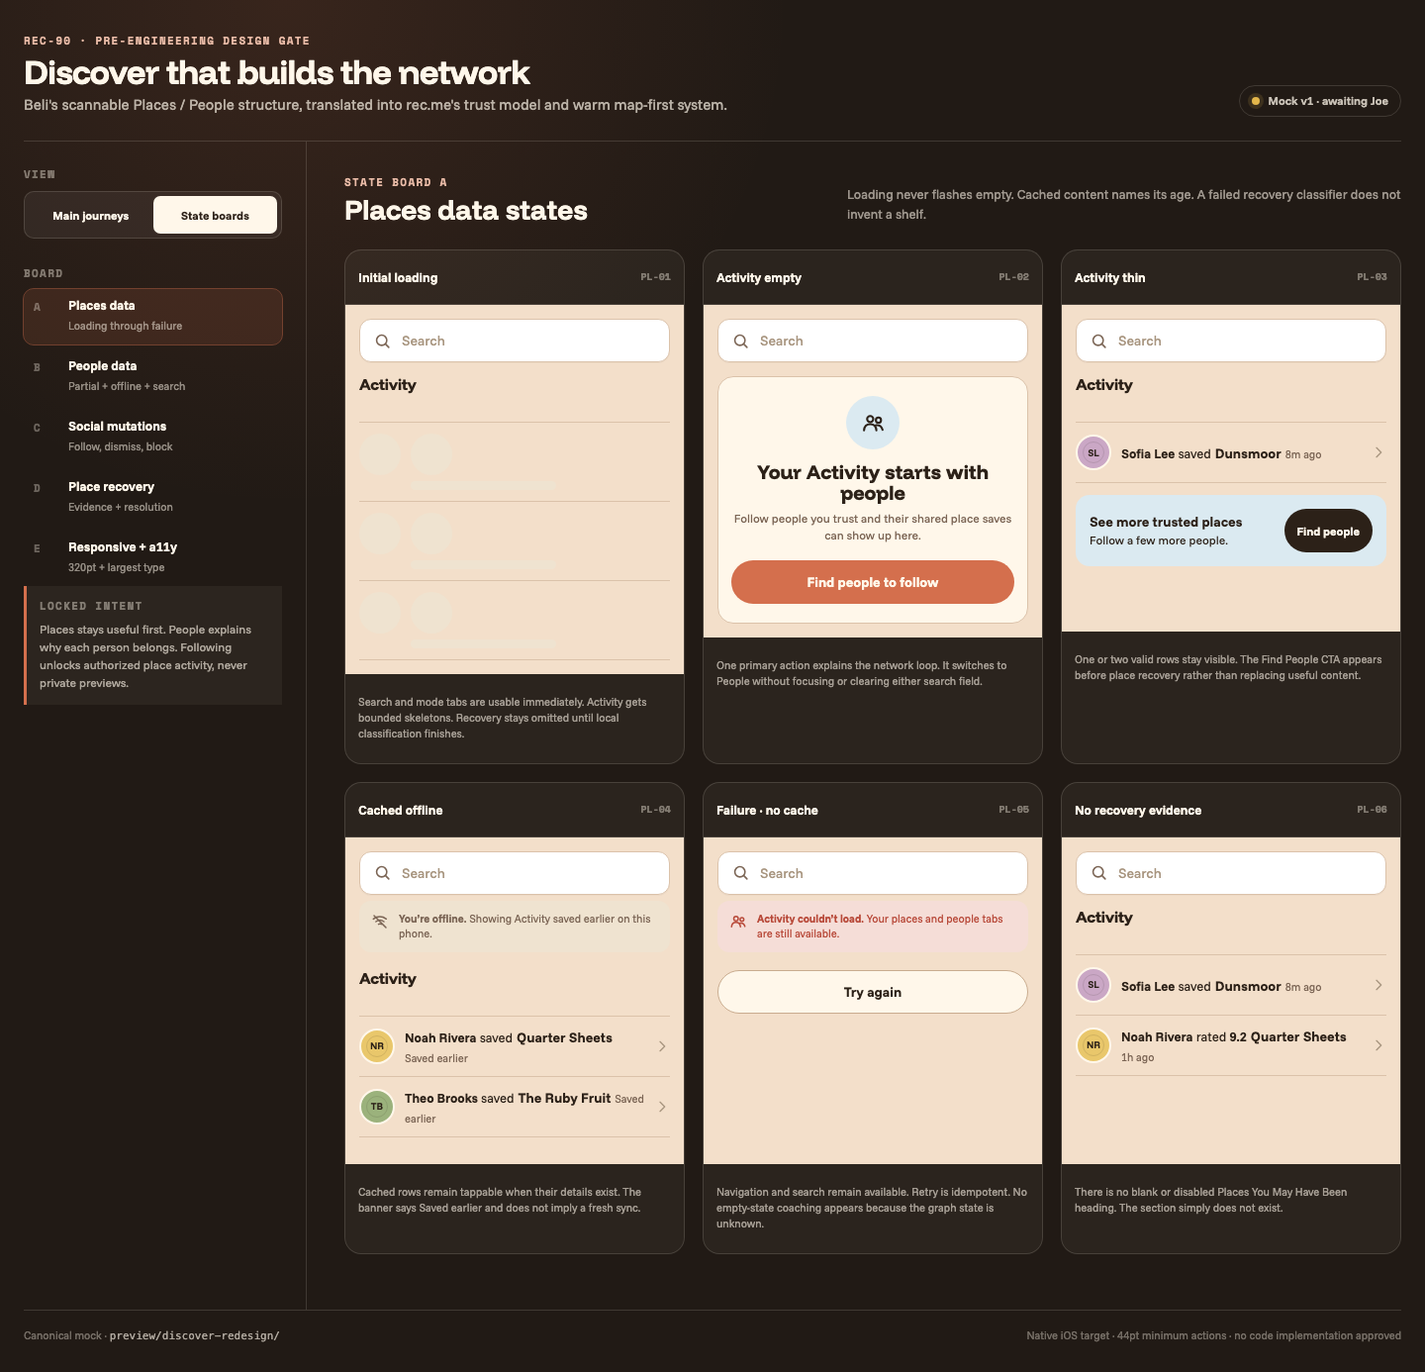
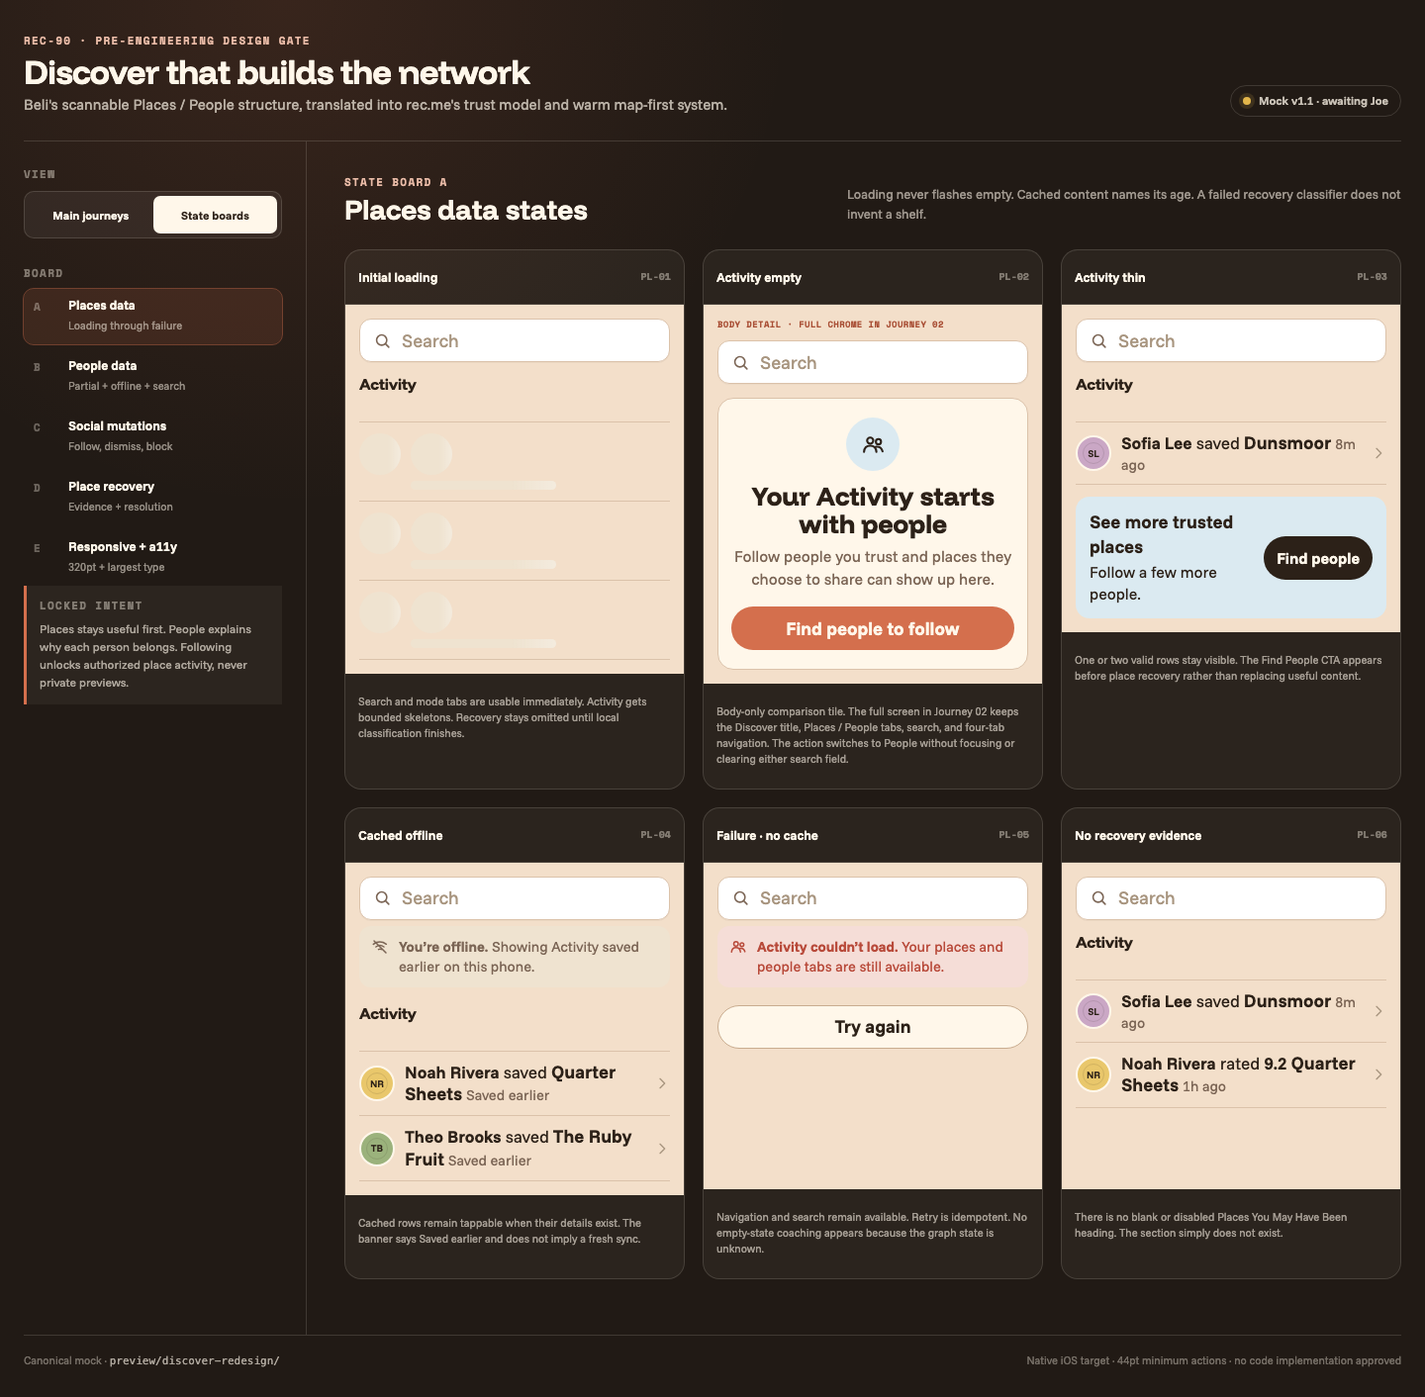
docs: clarify REC-90 empty activity mock

diff --git a/preview/discover-redesign/app.js b/preview/discover-redesign/app.js
@@ -40,7 +40,7 @@ const profiles = {
 
 const screenMetadata = {
   'places-populated': {
-    kicker: 'Journey 01 of 09', title: 'Places home',
+    kicker: 'Journey 01 of 10', title: 'Places home',
     note: 'Default landing: newest-first Activity, then only the recovery shelf the evidence supports.',
     proofs: [
       'Search is available before any feed content loads.',
@@ -48,8 +48,17 @@ const screenMetadata = {
       'Strong foreground evidence earns “may have been” language and direct Been / Wanna Go actions.'
     ]
   },
+  'activity-empty': {
+    kicker: 'Journey 02 of 10', title: 'Activity empty',
+    note: 'Empty Activity is a content state, not a different Discover shell. Places / People, search, and the four-tab navigation all stay visible.',
+    proofs: [
+      'Places remains selected while People stays one tap away.',
+      'Search remains available even when the social Activity result is empty.',
+      'Find people to follow switches to People without auto-focusing or clearing either mode’s search field.'
+    ]
+  },
   'people-populated': {
-    kicker: 'Journey 02 of 09', title: 'People suggestions',
+    kicker: 'Journey 03 of 10', title: 'People suggestions',
     note: 'A proactive people surface that feels useful, not like a popularity leaderboard.',
     proofs: [
       'Every card names one understandable reason.',
@@ -58,7 +67,7 @@ const screenMetadata = {
     ]
   },
   'people-search': {
-    kicker: 'Journey 03 of 09', title: 'People search',
+    kicker: 'Journey 04 of 10', title: 'People search',
     note: 'An active query replaces proactive shelves. Dismissed suggestions may still appear here.',
     proofs: [
       'Search result hierarchy favors identity over recommendation metadata.',
@@ -67,7 +76,7 @@ const screenMetadata = {
     ]
   },
   'follow-success': {
-    kicker: 'Journey 04 of 09', title: 'Follow success',
+    kicker: 'Journey 05 of 10', title: 'Follow success',
     note: 'The card stays in place as Following for this appearance so the action has an obvious result.',
     proofs: [
       'Exactly one mutation can be sent while the control is in flight.',
@@ -76,7 +85,7 @@ const screenMetadata = {
     ]
   },
   'activity-unlocked': {
-    kicker: 'Journey 05 of 09', title: 'Activity unlocked',
+    kicker: 'Journey 06 of 10', title: 'Activity unlocked',
     note: 'Following must produce visible product value. Maya’s latest shared save now leads Activity.',
     proofs: [
       'The new authorized event is first because Activity remains newest-first.',
@@ -85,7 +94,7 @@ const screenMetadata = {
     ]
   },
   'strong-recovery': {
-    kicker: 'Journey 06 of 09', title: 'Strong place recovery',
+    kicker: 'Journey 07 of 10', title: 'Strong place recovery',
     note: 'A foreground “I’m here” draft supports a may-have-been prompt, but the user still decides.',
     proofs: [
       'The provenance says what rec.me remembered without implying background tracking.',
@@ -94,7 +103,7 @@ const screenMetadata = {
     ]
   },
   'weak-recovery': {
-    kicker: 'Journey 07 of 09', title: 'Weak place recovery',
+    kicker: 'Journey 08 of 10', title: 'Weak place recovery',
     note: 'A search/detail open is not presence evidence. The interface says “pick up,” never “you were here.”',
     proofs: [
       'The weak shelf title makes no visit claim.',
@@ -103,7 +112,7 @@ const screenMetadata = {
     ]
   },
   'profile-open': {
-    kicker: 'Journey 08 of 09', title: 'Public profile preview',
+    kicker: 'Journey 09 of 10', title: 'Public profile preview',
     note: 'The existing profile opens with enough public context to decide, but no protected place preview.',
     proofs: [
       'Name, handle, city, bio, and reason are public-shell fields.',
@@ -112,7 +121,7 @@ const screenMetadata = {
     ]
   },
   'signed-out': {
-    kicker: 'Journey 09 of 09', title: 'Signed-out gate',
+    kicker: 'Journey 10 of 10', title: 'Signed-out gate',
     note: 'Anonymous users do not receive member search, personalized shelves, or graph reasons.',
     proofs: [
       'The disabled search shape communicates where the capability will live.',
@@ -285,6 +294,23 @@ function placesHome({ unlocked = false } = {}) {
   });
 }
 
+function activityEmpty() {
+  return screenFrame({
+    mode: 'places',
+    content: `
+      ${searchField({ placeholder: 'Search places, vibes, or people' })}
+      <section class="section-block">
+        ${sectionHeader('Activity')}
+        ${emptyPanel({
+          title: 'Your Activity starts with people',
+          copy: 'Follow people you trust and places they choose to share can show up here.',
+          action: 'Find people to follow',
+          actionName: 'people'
+        })}
+      </section>`
+  });
+}
+
 function peopleHome({ success = false } = {}) {
   return screenFrame({
     mode: 'people',
@@ -409,6 +435,7 @@ function signedOut() {
 
 const screenTemplates = {
   'places-populated': () => placesHome(),
+  'activity-empty': () => activityEmpty(),
   'people-populated': () => peopleHome(),
   'people-search': () => peopleSearch(),
   'follow-success': () => peopleHome({ success: true }),
@@ -433,7 +460,7 @@ const boards = {
     note: 'Loading never flashes empty. Cached content names its age. A failed recovery classifier does not invent a shelf.',
     states: [
       { name: 'Initial loading', code: 'PL-01', explainer: 'Search and mode tabs are usable immediately. Activity gets bounded skeletons. Recovery stays omitted until local classification finishes.', body: `${miniSearch()}${sectionHeader('Activity')}<div class="activity-list">${skeletonRows(3)}</div>` },
-      { name: 'Activity empty', code: 'PL-02', explainer: 'One primary action explains the network loop. It switches to People without focusing or clearing either search field.', body: `${miniSearch()}${emptyPanel({ title: 'Your Activity starts with people', copy: 'Follow people you trust and their shared place saves can show up here.', action: 'Find people to follow', actionName: 'people' })}` },
+      { name: 'Activity empty', code: 'PL-02', explainer: 'Body-only comparison tile. The full screen in Journey 02 keeps the Discover title, Places / People tabs, search, and four-tab navigation. The action switches to People without focusing or clearing either search field.', body: `<div class="board-shell-note">Body detail · full chrome in Journey 02</div>${miniSearch()}${emptyPanel({ title: 'Your Activity starts with people', copy: 'Follow people you trust and places they choose to share can show up here.', action: 'Find people to follow', actionName: 'people' })}` },
       { name: 'Activity thin', code: 'PL-03', explainer: 'One or two valid rows stay visible. The Find People CTA appears before place recovery rather than replacing useful content.', body: `${miniSearch()}${sectionHeader('Activity')}<div class="activity-list">${activityRow({ profile: 'sofia', verb: 'saved', place: 'Dunsmoor', meta: '8m ago' })}</div><div class="inline-cta"><p><b>See more trusted places</b>Follow a few more people.</p><button class="small-action">Find people</button></div>` },
       { name: 'Cached offline', code: 'PL-04', explainer: 'Cached rows remain tappable when their details exist. The banner says Saved earlier and does not imply a fresh sync.', body: `${miniSearch()}${valueNote('<b>You’re offline.</b> Showing Activity saved earlier on this phone.', 'is-offline')}${sectionHeader('Activity')}<div class="activity-list">${activityRow({ profile: 'noah', verb: 'saved', place: 'Quarter Sheets', meta: 'Saved earlier' })}${activityRow({ profile: 'theo', verb: 'saved', place: 'The Ruby Fruit', meta: 'Saved earlier' })}</div>` },
       { name: 'Failure · no cache', code: 'PL-05', explainer: 'Navigation and search remain available. Retry is idempotent. No empty-state coaching appears because the graph state is unknown.', body: `${miniSearch()}${valueNote('<b>Activity couldn’t load.</b> Your places and people tabs are still available.', 'is-error')}<button class="secondary-action">Try again</button>` },
@@ -573,6 +600,7 @@ function wireScreenInteractions() {
   });
 
   $('[data-empty-action="signin"]', $('#phone-canvas'))?.addEventListener('click', () => showToast('Sign-in opens for: find and follow people.'));
+  $('[data-empty-action="people"]', $('#phone-canvas'))?.addEventListener('click', () => renderScreen('people-populated'));
 
   $('.bottom-sheet-backdrop', $('#phone-canvas'))?.addEventListener('click', event => {
     if (event.target.classList.contains('bottom-sheet-backdrop')) renderScreen('places-populated');

diff --git a/preview/discover-redesign/index.html b/preview/discover-redesign/index.html
@@ -38,7 +38,7 @@
       <h1>Discover that builds the network</h1>
       <p class="lab-lede">Beli's scannable Places / People structure, translated into rec.me's trust model and warm map-first system.</p>
     </div>
-    <div class="status-chip"><span></span> Mock v1 · awaiting Joe</div>
+    <div class="status-chip"><span></span> Mock v1.1 · awaiting Joe</div>
   </header>
 
   <main class="design-room">
@@ -55,14 +55,15 @@
         <p class="control-label">Journey</p>
         <nav class="scenario-list" aria-label="Journey screens">
           <button class="scenario-button is-active" data-screen="places-populated"><span>01</span><b>Places · home</b><small>Activity + strong recovery</small></button>
-          <button class="scenario-button" data-screen="people-populated"><span>02</span><b>People · suggestions</b><small>Trust reasons + follow value</small></button>
-          <button class="scenario-button" data-screen="people-search"><span>03</span><b>People · search</b><small>Query replaces shelves</small></button>
-          <button class="scenario-button" data-screen="follow-success"><span>04</span><b>Follow · success</b><small>Inline acknowledgement</small></button>
-          <button class="scenario-button" data-screen="activity-unlocked"><span>05</span><b>Activity · unlocked</b><small>New follow changes value</small></button>
-          <button class="scenario-button" data-screen="strong-recovery"><span>06</span><b>Strong recovery</b><small>Been / Wanna Go</small></button>
-          <button class="scenario-button" data-screen="weak-recovery"><span>07</span><b>Weak recovery</b><small>No false visit claim</small></button>
-          <button class="scenario-button" data-screen="profile-open"><span>08</span><b>Profile · preview</b><small>Public shell before follow</small></button>
-          <button class="scenario-button" data-screen="signed-out"><span>09</span><b>Signed out</b><small>Honest People auth gate</small></button>
+          <button class="scenario-button" data-screen="activity-empty"><span>02</span><b>Places · empty</b><small>Persistent tabs + Find People</small></button>
+          <button class="scenario-button" data-screen="people-populated"><span>03</span><b>People · suggestions</b><small>Trust reasons + follow value</small></button>
+          <button class="scenario-button" data-screen="people-search"><span>04</span><b>People · search</b><small>Query replaces shelves</small></button>
+          <button class="scenario-button" data-screen="follow-success"><span>05</span><b>Follow · success</b><small>Inline acknowledgement</small></button>
+          <button class="scenario-button" data-screen="activity-unlocked"><span>06</span><b>Activity · unlocked</b><small>New follow changes value</small></button>
+          <button class="scenario-button" data-screen="strong-recovery"><span>07</span><b>Strong recovery</b><small>Been / Wanna Go</small></button>
+          <button class="scenario-button" data-screen="weak-recovery"><span>08</span><b>Weak recovery</b><small>No false visit claim</small></button>
+          <button class="scenario-button" data-screen="profile-open"><span>09</span><b>Profile · preview</b><small>Public shell before follow</small></button>
+          <button class="scenario-button" data-screen="signed-out"><span>10</span><b>Signed out</b><small>Honest People auth gate</small></button>
         </nav>
       </section>
 
@@ -96,7 +97,7 @@
     <section class="preview-stage" aria-live="polite">
       <div class="journey-workspace">
         <div class="phone-note">
-          <span id="screen-kicker">Journey 01 of 09</span>
+          <span id="screen-kicker">Journey 01 of 10</span>
           <strong id="screen-title">Places home</strong>
           <p id="screen-note">Default landing: newest-first Activity, then only the recovery shelf the evidence supports.</p>
         </div>

diff --git a/preview/discover-redesign/styles.css b/preview/discover-redesign/styles.css
@@ -1079,6 +1079,13 @@ button { -webkit-tap-highlight-color: transparent; }
 }
 .state-surface .section-header h3 { font-size: 16px; }
 .state-surface .search-field { min-height: 44px; margin-bottom: 14px; }
+.board-shell-note {
+  margin: 0 0 10px;
+  color: var(--terracotta-dark);
+  font: 700 9px/1.35 var(--font-mono);
+  letter-spacing: .04em;
+  text-transform: uppercase;
+}
 .state-surface .empty-panel { padding: 19px 13px; }
 .state-surface .activity-row { min-height: 61px; grid-template-columns: 36px 1fr auto; }
 .state-surface .avatar { width: 36px; height: 36px; font-size: 10px; }

diff --git a/docs/reviews/2026-07-13-rec-90-discover-plan-design-review.md b/docs/reviews/2026-07-13-rec-90-discover-plan-design-review.md
@@ -92,7 +92,7 @@ The primary risk was turning Discover into a generic social directory. The bound
 | ID | State | Visual contract |
 |---|---|---|
 | PL-01 | Initial loading | Search and tabs render immediately; bounded Activity skeletons; recovery omitted until classified. |
-| PL-02 | Activity empty | One centered explanation and one primary `Find people to follow` action. No fake rows. |
+| PL-02 | Activity empty | Full Discover chrome persists: title, Places / People tabs, search, and four-tab navigation. The body shows one centered explanation and one primary `Find people to follow` action. No fake rows. |
 | PL-03 | Activity thin | Render one or two real rows, then compact Find People callout before recovery. |
 | PL-04 | Activity populated | Open newest-first row list; author, action, place, area, age; row opens authorized place detail. |
 | PL-05 | Cached offline | Quiet offline banner says `Saved earlier`; cached rows remain usable if details exist. |
@@ -224,7 +224,7 @@ The recommendation card is not a general-purpose profile card. Its reason, dismi
 
 1. Approve the mock v1 direction and density, especially the 180pt horizontal people cards and compact low-network value note.
 2. Approve the confidence-matched place recovery copy and provenance treatment.
-3. Approve using grouped state boards as the full-state handoff, with the 9 main journeys represented as full phone screens.
+3. Approve using grouped body-state boards as the compact full-state handoff, with the 10 main journeys represented as full phone screens. Journey 02 explicitly shows the complete Activity-empty screen because the compact board crop hid persistent navigation chrome.
 
 Any requested visual changes are applied to the mock and this document before the design gate closes.
 
@@ -256,9 +256,10 @@ Gate metrics remain those in the canonical product contract. This review does no
 
 | Surface | Artifact | Status | Approval note |
 |---|---|---|---|
-| Main journeys | `preview/discover-redesign/index.html` → Main journeys | Pending Joe | Nine full-screen flow states. |
+| Main journeys | `preview/discover-redesign/index.html` → Main journeys | Pending Joe | Ten full-screen flow states. |
 | Full-state boards | `preview/discover-redesign/index.html` → State boards | Pending Joe | Five boards covering data, mutation, recovery, and accessibility states. |
 | Places overview | `preview/discover-redesign/discover-journeys.png` | Pending Joe | 390pt default Places. |
+| Activity-empty screen | `preview/discover-redesign/discover-activity-empty.png` | Pending Joe | Full 390pt screen with persistent Places / People tabs, search, and four-tab navigation. |
 | People overview | `preview/discover-redesign/discover-people.png` | Pending Joe | 390pt populated People. |
 | State overview | `preview/discover-redesign/discover-states.png` | Pending Joe | Places state board; other boards are interactive in HTML. |
 
@@ -271,7 +272,7 @@ Gate metrics remain those in the canonical product contract. This review does no
 | Emotional journey | Pass | Value comprehension and trust mechanisms mapped per moment. |
 | AI-slop/trust | Pass | No leaderboard, fake preview, generic travel treatment, or structural emoji. |
 | Design system | Pass pending final DESIGN.md reconciliation | Existing tokens/components are reused; conflict is explicit. |
-| Responsive/accessibility | Pass for artifact | No horizontal overflow across 9 screens at 390pt and 320pt/1.32×; 44pt product targets; zero console errors. |
+| Responsive/accessibility | Pass for artifact | No horizontal overflow across 10 screens at 390pt and 320pt/1.32×; 44pt product targets; zero console errors. |
 | Unresolved decisions | Blocked on one gate | Joe must approve or revise mock v1 before engineering review. |
 
 ## GSTACK REVIEW REPORT
@@ -284,7 +285,7 @@ What is ready:
 
 - Stable information architecture.
 - Full product-state and visual-state contract.
-- Nine full-screen main journeys.
+- Ten full-screen main journeys.
 - Five grouped state boards.
 - Responsive/accessibility behavior and verification evidence.
 - Explicit design-to-engineering tasks.

diff --git a/preview/discover-redesign/README.md b/preview/discover-redesign/README.md
@@ -1,6 +1,6 @@
 # REC-90 Discover design room
 
-Status: mock v1, awaiting Joe's visual approval. This package is a design artifact only. It does not authorize engineering implementation.
+Status: mock v1.1, awaiting Joe's visual approval. This package is a design artifact only. It does not authorize engineering implementation.
 
 Open `index.html` through a local HTTP server so the vendored Pretext text-layout module can load:
 
@@ -14,14 +14,15 @@ Then open `http://127.0.0.1:4173/`.
 ## Main journeys
 
 1. Places default with newest-first Activity and strong place recovery.
-2. People suggestions with one trust reason, public profile context, and Follow.
-3. People search with active-query replacement behavior.
-4. Follow success that stays in place for the current appearance.
-5. Updated Activity after the new authorized follow.
-6. Strong place recovery using `Been` / `Wanna Go` and explicit foreground provenance.
-7. Weak place recovery using `Pick Up Where You Left Off`, with no visit claim.
-8. Public profile preview with no protected place names, counts, or categories.
-9. Signed-out People auth gate with no anonymous lookup or personalized request.
+2. Empty Activity with the full Discover chrome still present: Places / People, search, and the four-tab navigation.
+3. People suggestions with one trust reason, public profile context, and Follow.
+4. People search with active-query replacement behavior.
+5. Follow success that stays in place for the current appearance.
+6. Updated Activity after the new authorized follow.
+7. Strong place recovery using `Been` / `Wanna Go` and explicit foreground provenance.
+8. Weak place recovery using `Pick Up Where You Left Off`, with no visit claim.
+9. Public profile preview with no protected place names, counts, or categories.
+10. Signed-out People auth gate with no anonymous lookup or personalized request.
 
 ## State boards
 
@@ -30,6 +31,8 @@ Then open `http://127.0.0.1:4173/`.
 - Social mutations: ready, in flight, success, rollback, dismissal/Undo, unfollow/access revocation, and hard block.
 - Place recovery: strong/weak evidence, duplicate omission, save in flight/failure/success, dismissal/Undo.
 - Responsive/accessibility: 320pt, large type, VoiceOver order, non-color state, Reduce Motion, and long/localized identity copy.
+
+State boards are compact body-state comparisons, not full-screen compositions. Shared Discover chrome is intentionally cropped there; Journey 02 is the canonical full-screen Activity-empty state.
 
 ## Interaction notes
 

diff --git a/docs/agent-log.md b/docs/agent-log.md
@@ -11105,3 +11105,12 @@ Plan-design-review and mock-v1 checkpoint, 2026-07-13 22:22 PDT:
 - Verification: `node --check` passes, `git diff --check` passes, the local mock has zero browser console errors, and a scripted audit across all nine journeys reports no horizontal screen/body overflow at 390pt or 320pt with 1.32× type. Places, People, state-board, and small-phone screenshots were reviewed visually.
 - Design status remains intentionally incomplete: mock v1 awaits Joe's visual/taste approval. Per his hard gate, `plan-eng-review` and implementation remain blocked.
 - Pushed `codex/rec-90-discover-plan` and opened required draft PR #97: https://github.com/joelipshutz/wander/pull/97. The PR and Linear REC-90 both state the same blocking gate and validation evidence; it is not ready to merge.
+
+Mock-v1.1 empty-Activity correction, 2026-07-15 09:23 PDT:
+
+- Joe liked the Discover direction and horizontal people shelves, then correctly flagged that the compact Activity-empty state tile did not show the Places / People tabs.
+- Clarified the product contract: empty Activity is only a body-content state. The Discover title, Places / People peer tabs, search, and existing four-tab root navigation must remain persistent.
+- Added Journey 02 as a complete 390pt Activity-empty phone screen, wired `Find people to follow` to the People suggestions journey, renumbered the artifact to ten journeys, and labeled the compact PL-02 state-board tile as a body-only comparison.
+- Added `preview/discover-redesign/discover-activity-empty.png` and updated the mock README, metadata, and plan-design review. No SwiftUI, database, recommendation, or other engineering work started.
+- Verification: `node --check` and `git diff --check` pass; the browser reports zero console errors; the empty-state CTA opens People; both mode tabs, search, and all four root tabs are present; all ten journeys have no horizontal phone/body overflow at 320pt with 1.32× type.
+- Design approval remains open. `plan-eng-review` and implementation are still blocked until Joe approves the corrected mock direction.
